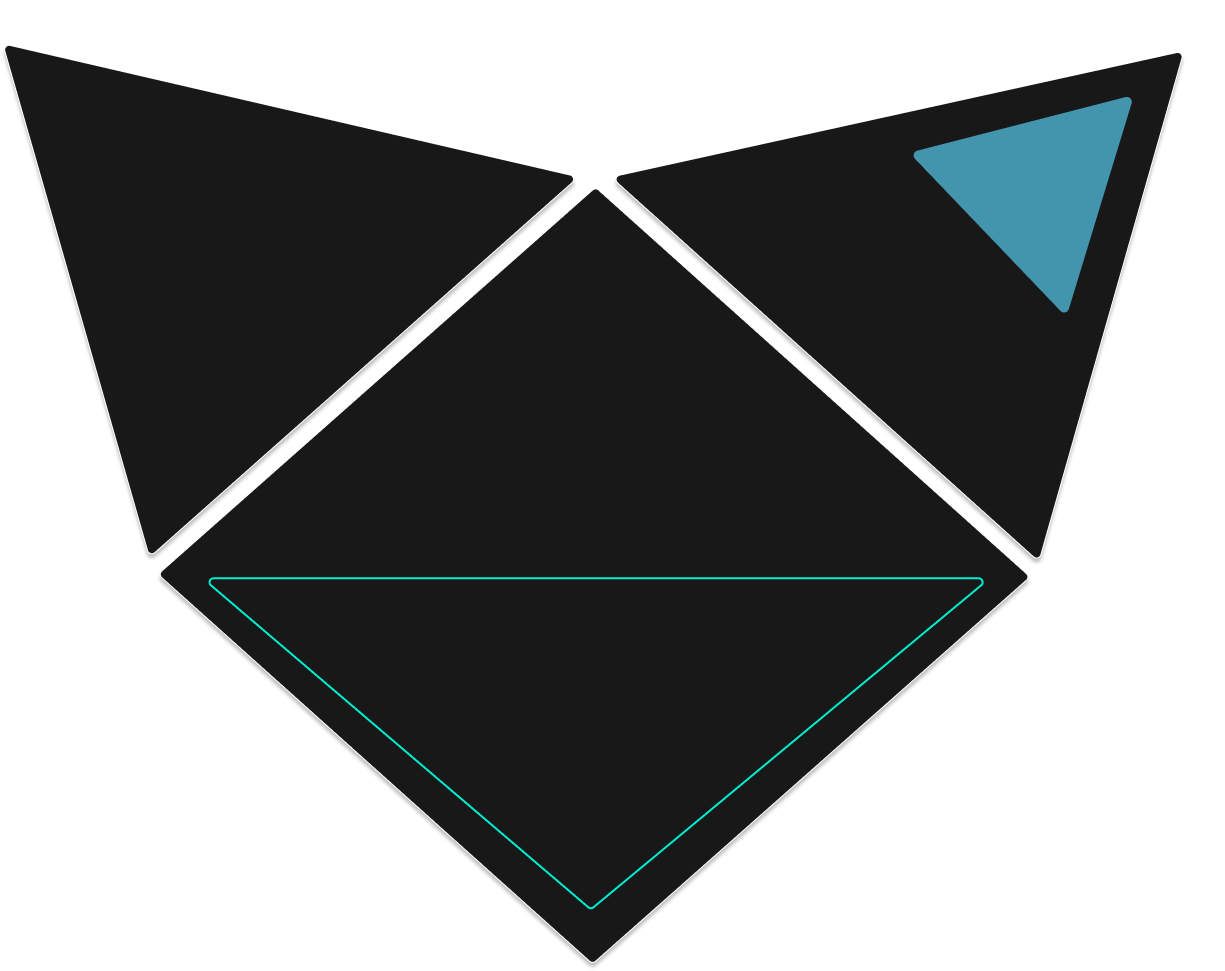
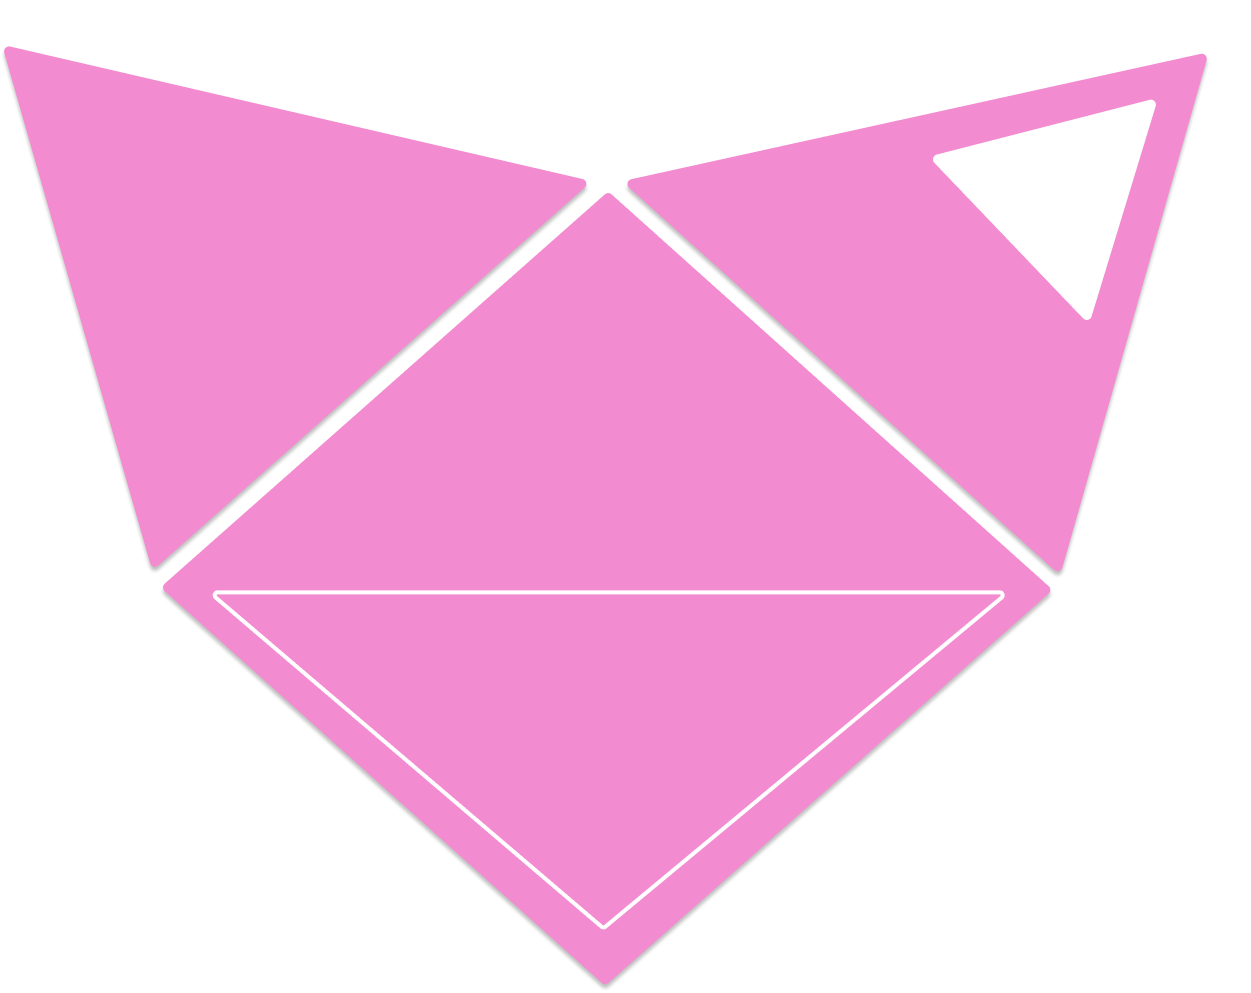
changes in Colors01

diff --git a/src/components/hero/hero.scss b/src/components/hero/hero.scss
@@ -2,6 +2,7 @@
 	height: calc(100vh - 100px);
 	overflow: hidden;
  position: relative;
+	color: #0197AF;
 
 	.wrapper{
 		max-width: 1366px;
@@ -15,10 +16,11 @@
 			flex-direction: column;
 			justify-content: center;
 			gap: 40px;
+  ;
 
 			h2{
 				font-size: 30px;
-				color: #0197AF;
+				color: white;
 				letter-spacing: 10px;
 			}
 
@@ -29,10 +31,10 @@
 			.buttons{
 				button{
 					padding: 20px;
-					border: 1px solid white;
+					border: none;
 					border-radius: 10px;
 					color: white ;
-					background-color: #0197AF;
+					background-color: #e81ea483;
 					margin-right: 20px; 
 					cursor: pointer;
 					font-weight: 300;
@@ -40,7 +42,7 @@
 			}
 
 			img{
-				width: 5%;
+				width: 2.5%;
 			
 			}
 

diff --git a/src/components/navbar/navbar.scss b/src/components/navbar/navbar.scss
@@ -1,5 +1,6 @@
 .navbar{
 	height: 100px;
+	color: white;
 
 	.wrapper{
 		max-width: 1366px;

diff --git a/src/app.scss b/src/app.scss
@@ -13,7 +13,6 @@ html{
 
 body{
 	background-color: #181818;
-	color: #00dde0;
 
 }
 
